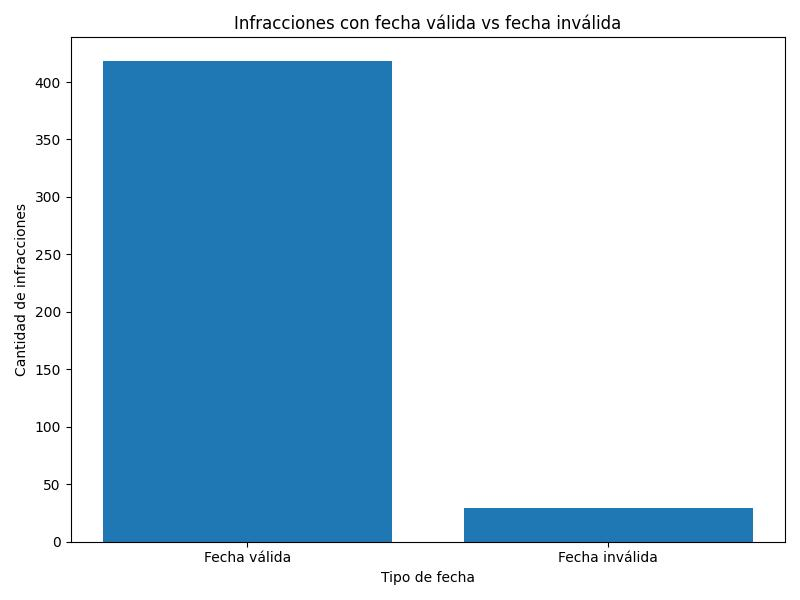
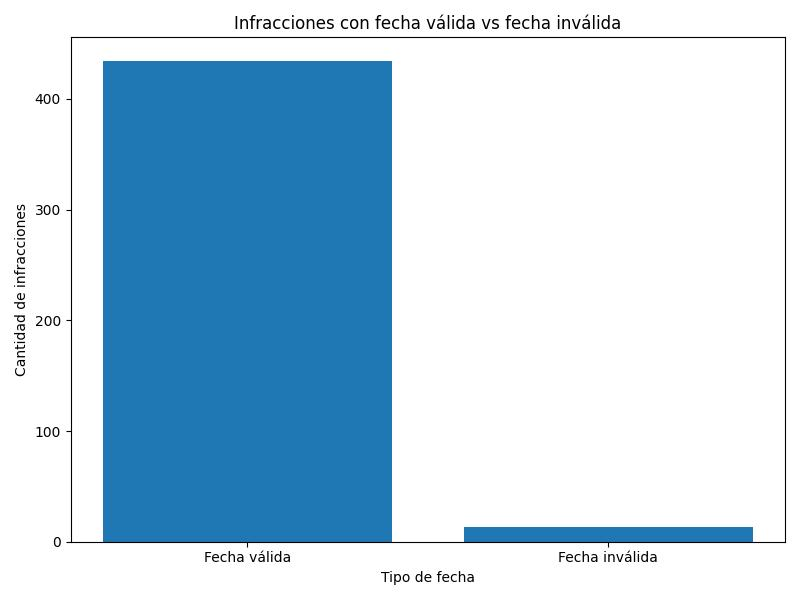
Día 5: generación y exportación de gráficos

diff --git a/CHANGELOG.md b/CHANGELOG.md
@@ -1,5 +1,15 @@
 # CHANGELOG
 
+[Ejercicio 5]
+
+- Se graficaron las 10 matrículas con más infracciones.
+- Se graficó la distribución de infracciones por turno del día.
+- Se graficó el total de infracciones por mes.
+- Se generó el histograma del exceso de velocidad real con curva KDE.
+- Se graficó el exceso de velocidad promedio por muelle.
+- Se compararon las infracciones con fecha válida e inválida.
+- Se exportaron los gráficos en data/interim/plots.
+
 [Ejercicio 4]
 
 - Se definió la clase PortAnalyzer para analizar el DataFrame limpio.
